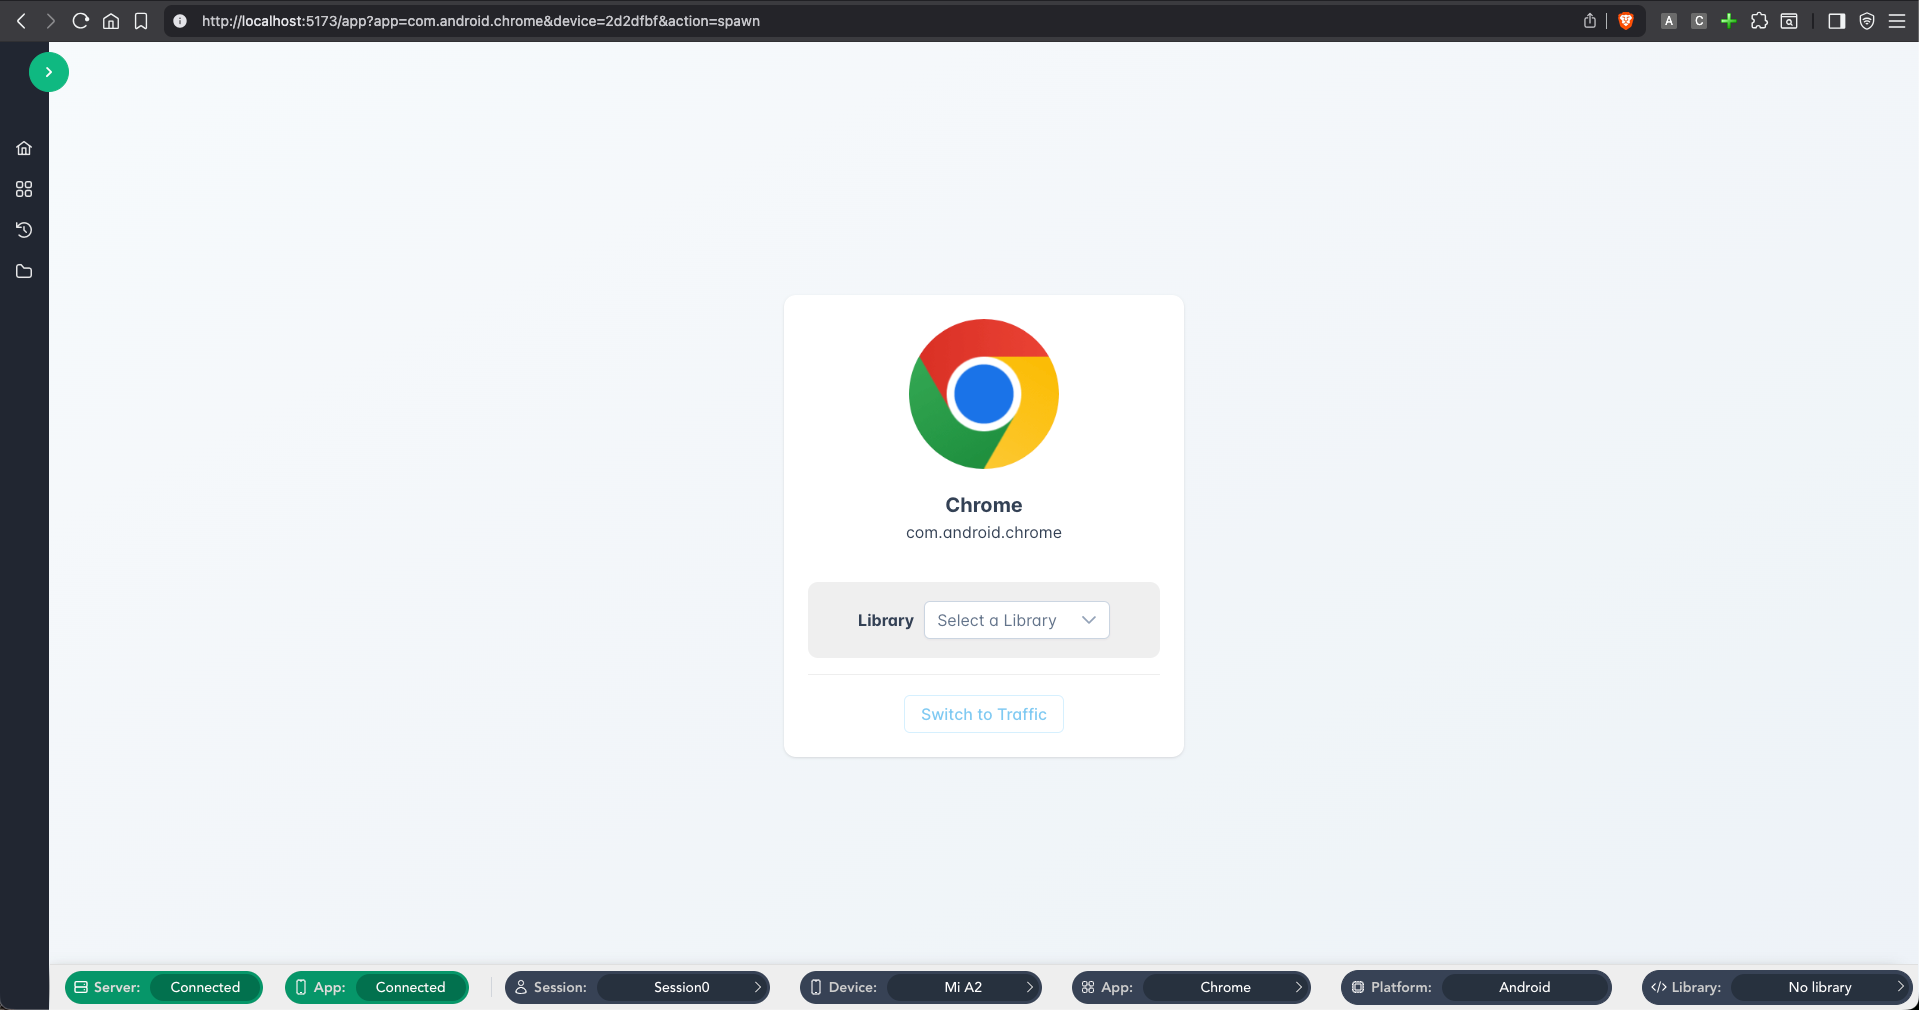
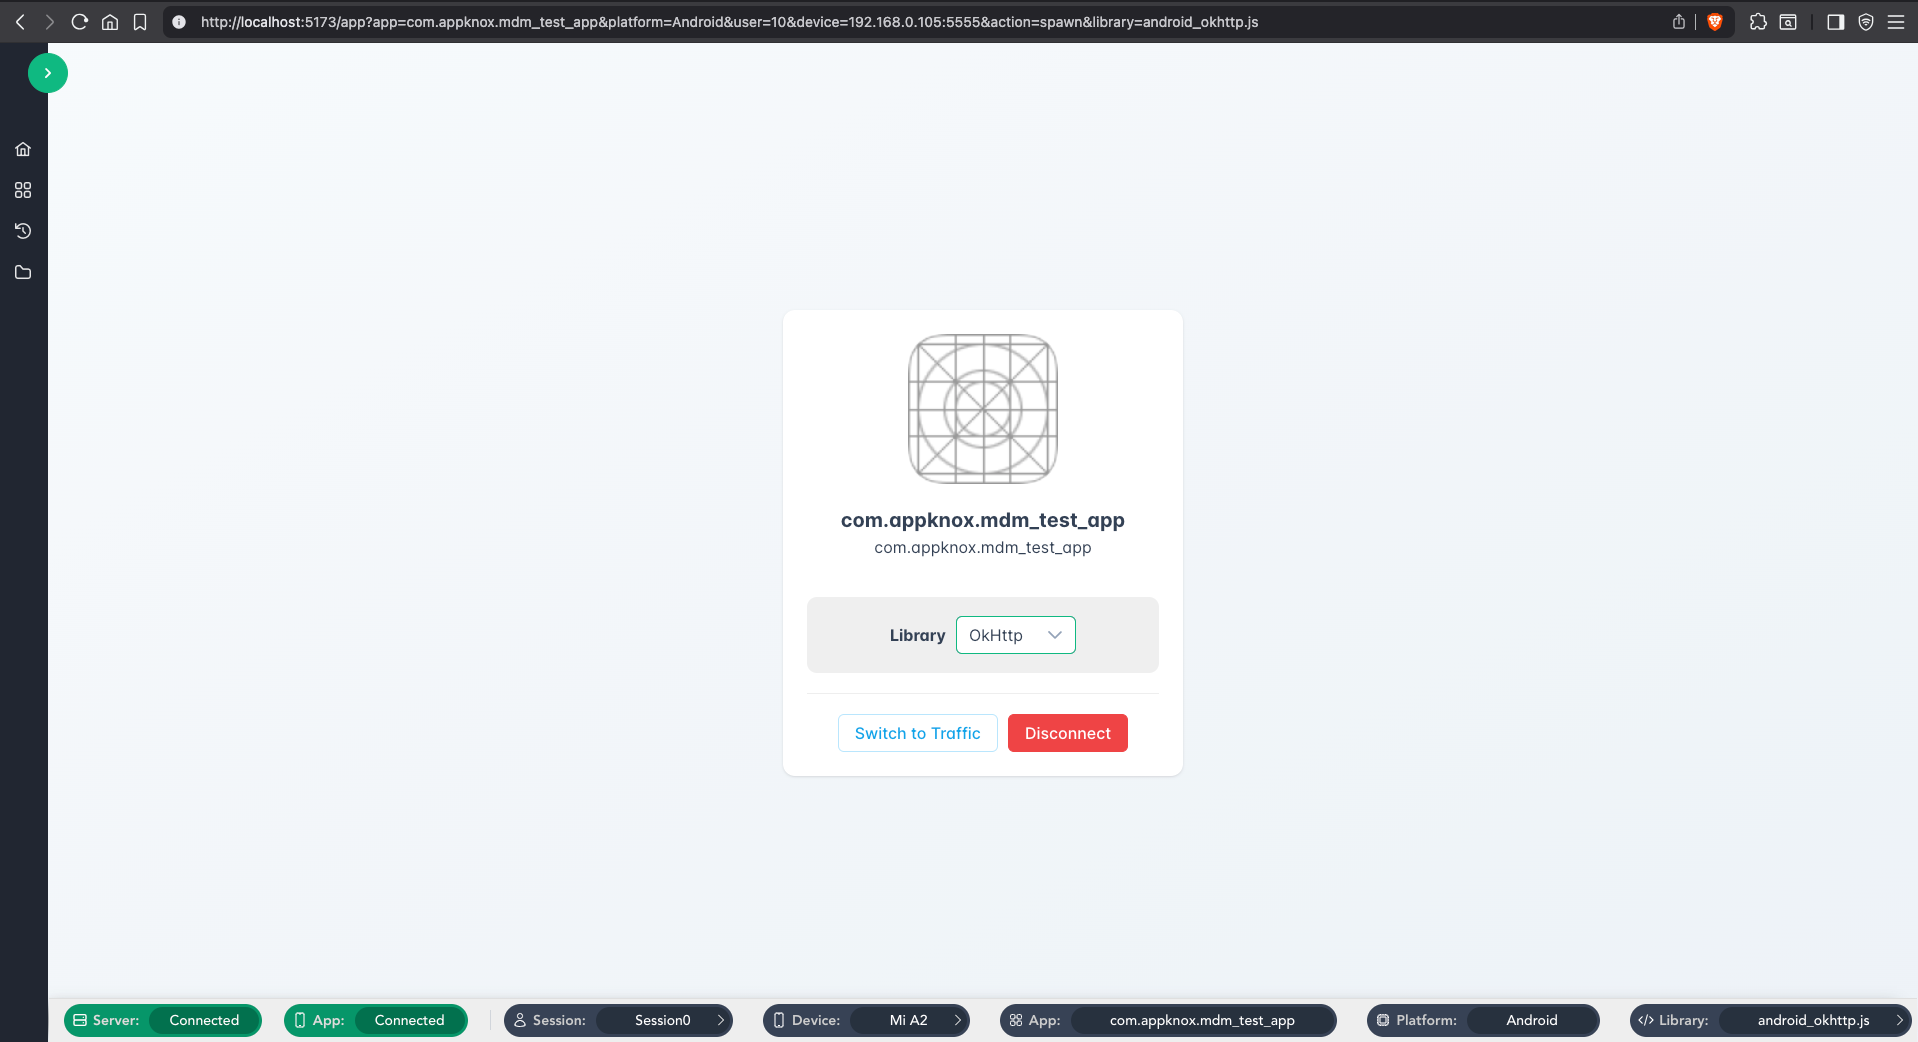
Updated README.md & Screenshots

diff --git a/README.md b/README.md
@@ -23,8 +23,11 @@ Traditional proxy tools like **Burp Suite** fail when dealing with:
 - 🔒 **Certificate pinning** implementations
 - 🛡 **Custom security protocols**
 - 🔐 **TLS/SSL bypass restrictions**
+- 🌐 **Devices using VPN connections**
 
-**KnoxSpy** solves this by hooking directly into popular network libraries at **runtime**, intercepting traffic **before encryption** and **after decryption**.
+
+
+**KnoxSpy** solves this by hooking directly into popular network libraries at **runtime**, even when the API traffic is routed through a VPN.
 
 ---
 
@@ -33,20 +36,15 @@ Traditional proxy tools like **Burp Suite** fail when dealing with:
 ### 🔥 **Advanced Interception**
 - **Runtime Hooking**: Bypass certificate pinning and security restrictions
 - **Multi-Platform**: Android (OkHttp3) and iOS (Alamofire/AFNetworking) support
-- **Auto-Detection**: Automatically detects and hooks appropriate network libraries
 - **Real-Time Analysis**: Live traffic capture and analysis
 
 ### 🛠 **Professional Toolkit**
-- **Request Modification**: Edit requests on-the-fly
 - **Traffic Replay**: Replay captured requests for testing
-- **Endpoint Fuzzing**: Built-in brute force capabilities
 - **Session Management**: Multiple concurrent testing sessions
 
 ### 🎨 **Modern Interface**
 - **Vue.js Frontend**: Responsive, intuitive web interface
 - **WebSocket Integration**: Real-time updates and communication
-- **Dark Theme**: Eye-friendly interface for extended testing sessions
-- **Export Capabilities**: Save and share your findings
 
 ---
 
@@ -81,6 +79,8 @@ Traditional proxy tools like **Burp Suite** fail when dealing with:
 - **Node.js** 18+ for development
 - **Android/iOS** device with USB debugging enabled
 
+> **Note:** Android device has to be rooted
+
 ### 🚀 **Installation**
 
 ```bash
@@ -104,7 +104,7 @@ cd ../..
 3. **Access Interface**: Open http://localhost:5173 in your browser
 4. **Create Session**: Set up a new testing session
 5. **Select App**: Choose the target application from the device
-6. **Auto-Hook**: Let KnoxSpy detect and hook the network library
+6. **Select Library**: Choose the library being used by the application
 7. **Capture Traffic**: Switch to the Proxy tab and start intercepting
 
 ---
